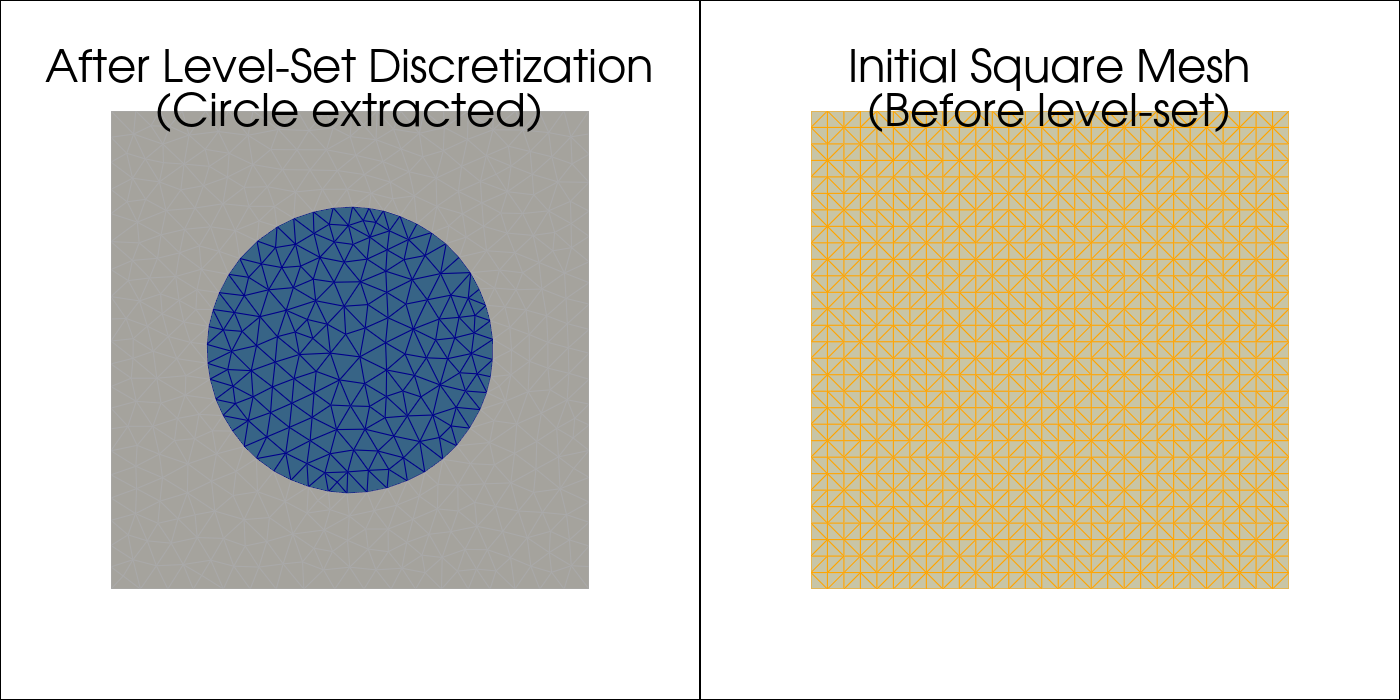
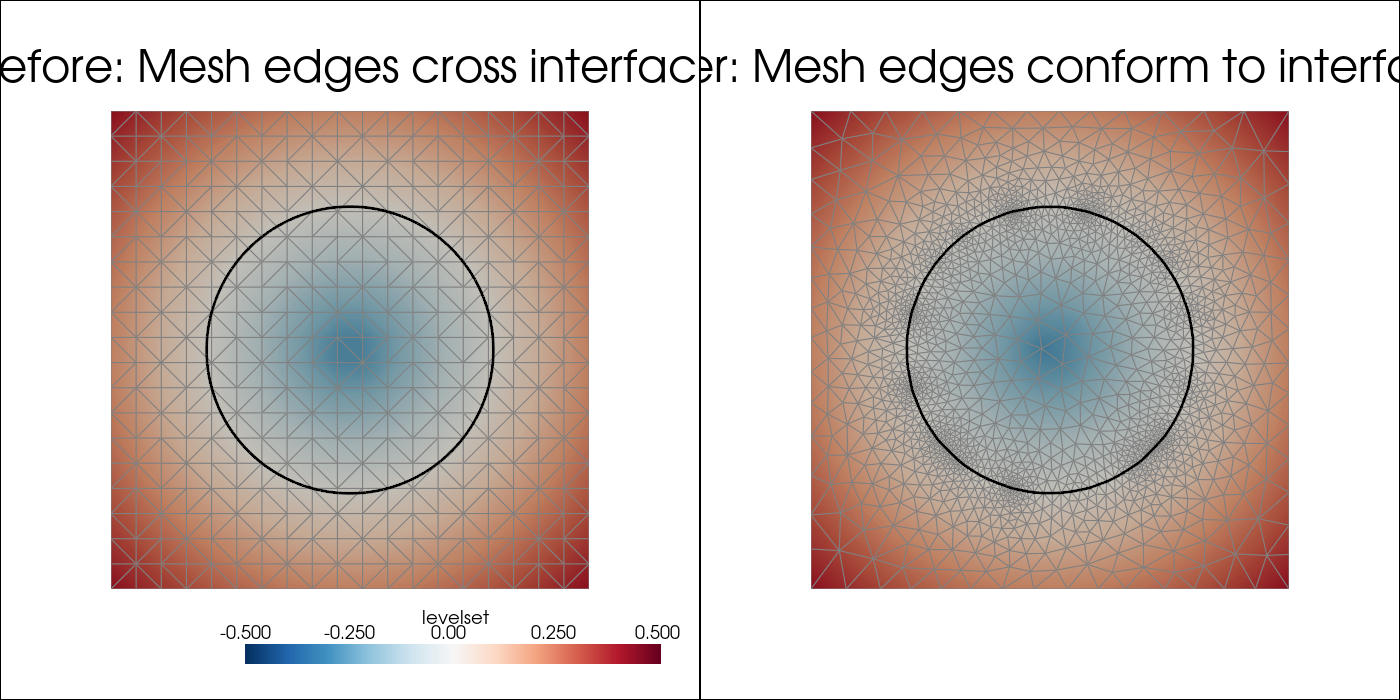
docs: Improve 2D level-set example to show interface conformity
The updated visualization clearly demonstrates the purpose of level-set
discretization: mesh edges conform to the interface (phi=0).

- Left: Initial mesh with level-set colormap, interface shown as black circle
- Right: After discretization, mesh edges align with the interface

diff --git a/examples/mmg2d/levelset_discretization.py b/examples/mmg2d/levelset_discretization.py
@@ -10,20 +10,21 @@
 # [tool.uv.sources]
 # mmgpy = { path = "../.." }
 # ///
-"""Level-set discretization example: Circle extraction from a square domain.
+"""Level-set discretization example: Mesh conforming to an interface.
 
-This example demonstrates how to use level-set discretization to extract
-a circular region from a 2D mesh. This is a typical use case for:
-- Material interface meshing
-- Phase field simulations
-- Domain decomposition
+This example demonstrates the key feature of level-set discretization:
+**the mesh edges conform to the level-set interface** (where phi = 0).
 
-The level-set function is the signed distance to the circle:
+The level-set function is the signed distance to a circle:
     phi(x,y) = sqrt((x-cx)^2 + (y-cy)^2) - radius
 
-After discretization, MMG creates elements with different refs:
-- ref=2: exterior region (where phi > 0)
-- ref=3: interior region (where phi < 0, inside the circle)
+Before discretization: mesh edges cross the interface arbitrarily
+After discretization: mesh edges align with the interface
+
+This is essential for:
+- Multi-material simulations (sharp interface between materials)
+- Phase field methods
+- Fluid-structure interaction
 """
 
 from pathlib import Path
@@ -40,7 +41,7 @@ def create_square_mesh(
     xmax: float = 1.0,
     ymin: float = 0.0,
     ymax: float = 1.0,
-    resolution: int = 30,
+    resolution: int = 20,
 ) -> tuple[np.ndarray, np.ndarray]:
     """Create a triangular mesh of a rectangular domain."""
     x = np.linspace(xmin, xmax, resolution)
@@ -57,105 +58,138 @@ def circle_levelset(
     center: tuple[float, float] = (0.5, 0.5),
     radius: float = 0.3,
 ) -> np.ndarray:
-    """Compute signed distance to a circle.
-
-    Negative inside, positive outside.
-    """
+    """Compute signed distance to a circle (negative inside, positive outside)."""
     cx, cy = center
     distances = np.sqrt((vertices[:, 0] - cx) ** 2 + (vertices[:, 1] - cy) ** 2)
     return (distances - radius).reshape(-1, 1)
 
 
-def extract_region_edges(
-    mesh: MmgMesh2D,
-    element_ref: int = 3,
+def to_pyvista_mesh(
+    vertices: np.ndarray,
+    triangles: np.ndarray,
+    levelset: np.ndarray | None = None,
 ) -> pv.PolyData:
-    """Extract edges of a region as a PyVista PolyData for visualization."""
+    """Convert 2D mesh to PyVista PolyData with optional level-set scalars."""
+    vertices_3d = np.column_stack([vertices, np.zeros(len(vertices))])
+    faces = np.hstack([np.full((len(triangles), 1), 3), triangles]).ravel()
+    mesh = pv.PolyData(vertices_3d, faces=faces)
+    if levelset is not None:
+        mesh.point_data["levelset"] = levelset.ravel()
+    return mesh
+
+
+def extract_interface(mesh: MmgMesh2D) -> pv.PolyData:
+    """Extract the interface edges (boundary between ref=2 and ref=3 regions).
+
+    After level-set discretization, edges on the interface separate elements
+    with ref=2 (exterior) from elements with ref=3 (interior).
+    """
     vertices = mesh.get_vertices()
     triangles, refs = mesh.get_triangles_with_refs()
-
-    # Get triangles with the target ref
-    target_triangles = triangles[refs == element_ref]
-
-    if len(target_triangles) == 0:
-        msg = f"No elements with ref {element_ref}. Refs: {np.unique(refs)}"
-        raise ValueError(msg)
-
-    # Add z=0 coordinate for PyVista
     vertices_3d = np.column_stack([vertices, np.zeros(len(vertices))])
 
-    # Create faces in VTK format
-    faces = np.hstack(
-        [
-            np.full((len(target_triangles), 1), 3),
-            target_triangles,
-        ],
-    ).ravel()
+    # Build edge-to-triangle mapping
+    edge_triangles: dict[tuple[int, int], list[int]] = {}
+    for tri_idx, tri in enumerate(triangles):
+        for i in range(3):
+            v1, v2 = tri[i], tri[(i + 1) % 3]
+            edge = (min(v1, v2), max(v1, v2))
+            if edge not in edge_triangles:
+                edge_triangles[edge] = []
+            edge_triangles[edge].append(tri_idx)
 
-    return pv.PolyData(vertices_3d, faces=faces)
+    # Find edges where adjacent triangles have different refs (interface edges)
+    interface_edges = []
+    for edge, tri_indices in edge_triangles.items():
+        if len(tri_indices) == 2:
+            ref1, ref2 = refs[tri_indices[0]], refs[tri_indices[1]]
+            if ref1 != ref2:
+                interface_edges.append(edge)
+
+    if not interface_edges:
+        return pv.PolyData()
+
+    # Create lines for interface
+    lines = []
+    for v1, v2 in interface_edges:
+        lines.extend([2, v1, v2])
+
+    return pv.PolyData(vertices_3d, lines=lines)
 
 
 def main() -> None:
-    """Demonstrate 2D level-set discretization with circle extraction."""
+    """Demonstrate mesh conforming to a level-set interface."""
+    center = (0.5, 0.5)
+    radius = 0.3
+
     print("Creating initial square mesh...")
-    vertices, triangles = create_square_mesh(resolution=30)
+    vertices, triangles = create_square_mesh(resolution=20)
+    levelset = circle_levelset(vertices, center=center, radius=radius)
     print(f"Initial mesh: {len(vertices)} vertices, {len(triangles)} triangles")
 
-    # Create mesh and compute level-set
-    mesh = MmgMesh2D(vertices, triangles)
-    levelset = circle_levelset(vertices, center=(0.5, 0.5), radius=0.3)
-
+    # Create mesh and apply level-set discretization
+    mesh = MmgMesh2D(vertices.copy(), triangles.copy())
     print("\nApplying level-set discretization...")
-    mesh.remesh_levelset(levelset, hmax=0.05, verbose=False)
+    mesh.remesh_levelset(levelset, hmax=0.08, verbose=False)
 
     new_vertices = mesh.get_vertices()
-    new_triangles, refs = mesh.get_triangles_with_refs()
+    new_triangles, _refs = mesh.get_triangles_with_refs()
+    new_levelset = circle_levelset(new_vertices, center=center, radius=radius)
     print(f"Result mesh: {len(new_vertices)} vertices, {len(new_triangles)} triangles")
-    print(f"Element refs: {np.unique(refs)}")
 
-    # Extract regions
-    interior = extract_region_edges(mesh, element_ref=3)
-    exterior = extract_region_edges(mesh, element_ref=2)
+    # Extract interface from result mesh
+    interface = extract_interface(mesh)
+
+    # Create reference circle for comparison
+    theta = np.linspace(0, 2 * np.pi, 100)
+    circle_points = np.column_stack(
+        [
+            center[0] + radius * np.cos(theta),
+            center[1] + radius * np.sin(theta),
+            np.zeros(100),
+        ],
+    )
+    circle = pv.Spline(circle_points, 100)
 
     # Visualization
     pl = pv.Plotter(shape=(1, 2), window_size=(1400, 700), off_screen=True)
 
+    # Left: Initial mesh with level-set values
     pl.subplot(0, 0)
-    pl.add_mesh(
-        exterior,
-        show_edges=True,
-        color="lightgray",
-        edge_color="darkgray",
-        line_width=0.5,
-    )
-    pl.add_mesh(
-        interior,
-        show_edges=True,
-        color="steelblue",
-        edge_color="darkblue",
-        line_width=0.5,
-    )
-    pl.add_title("After Level-Set Discretization\n(Circle extracted)")
-    pl.view_xy()
-
-    pl.subplot(0, 1)
-    # Show initial mesh for comparison
-    initial_vertices_3d = np.column_stack([vertices, np.zeros(len(vertices))])
-    initial_faces = np.hstack(
-        [
-            np.full((len(triangles), 1), 3),
-            triangles,
-        ],
-    ).ravel()
-    initial_mesh = pv.PolyData(initial_vertices_3d, faces=initial_faces)
+    initial_mesh = to_pyvista_mesh(vertices, triangles, levelset)
     pl.add_mesh(
         initial_mesh,
+        scalars="levelset",
+        cmap="RdBu_r",
+        clim=[-0.5, 0.5],
         show_edges=True,
-        color="lightyellow",
-        edge_color="orange",
+        edge_color="gray",
         line_width=0.5,
     )
-    pl.add_title("Initial Square Mesh\n(Before level-set)")
+    pl.add_mesh(circle, color="black", line_width=3, label="Interface (φ=0)")
+    pl.add_title("Before: Mesh edges cross interface")
+    pl.view_xy()
+
+    # Right: Result mesh with interface highlighted
+    pl.subplot(0, 1)
+    result_mesh = to_pyvista_mesh(new_vertices, new_triangles, new_levelset)
+    pl.add_mesh(
+        result_mesh,
+        scalars="levelset",
+        cmap="RdBu_r",
+        clim=[-0.5, 0.5],
+        show_edges=True,
+        edge_color="gray",
+        line_width=0.5,
+    )
+    if interface.n_points > 0:
+        pl.add_mesh(
+            interface,
+            color="black",
+            line_width=3,
+            label="Interface (mesh edges)",
+        )
+    pl.add_title("After: Mesh edges conform to interface")
     pl.view_xy()
 
     # Save image
